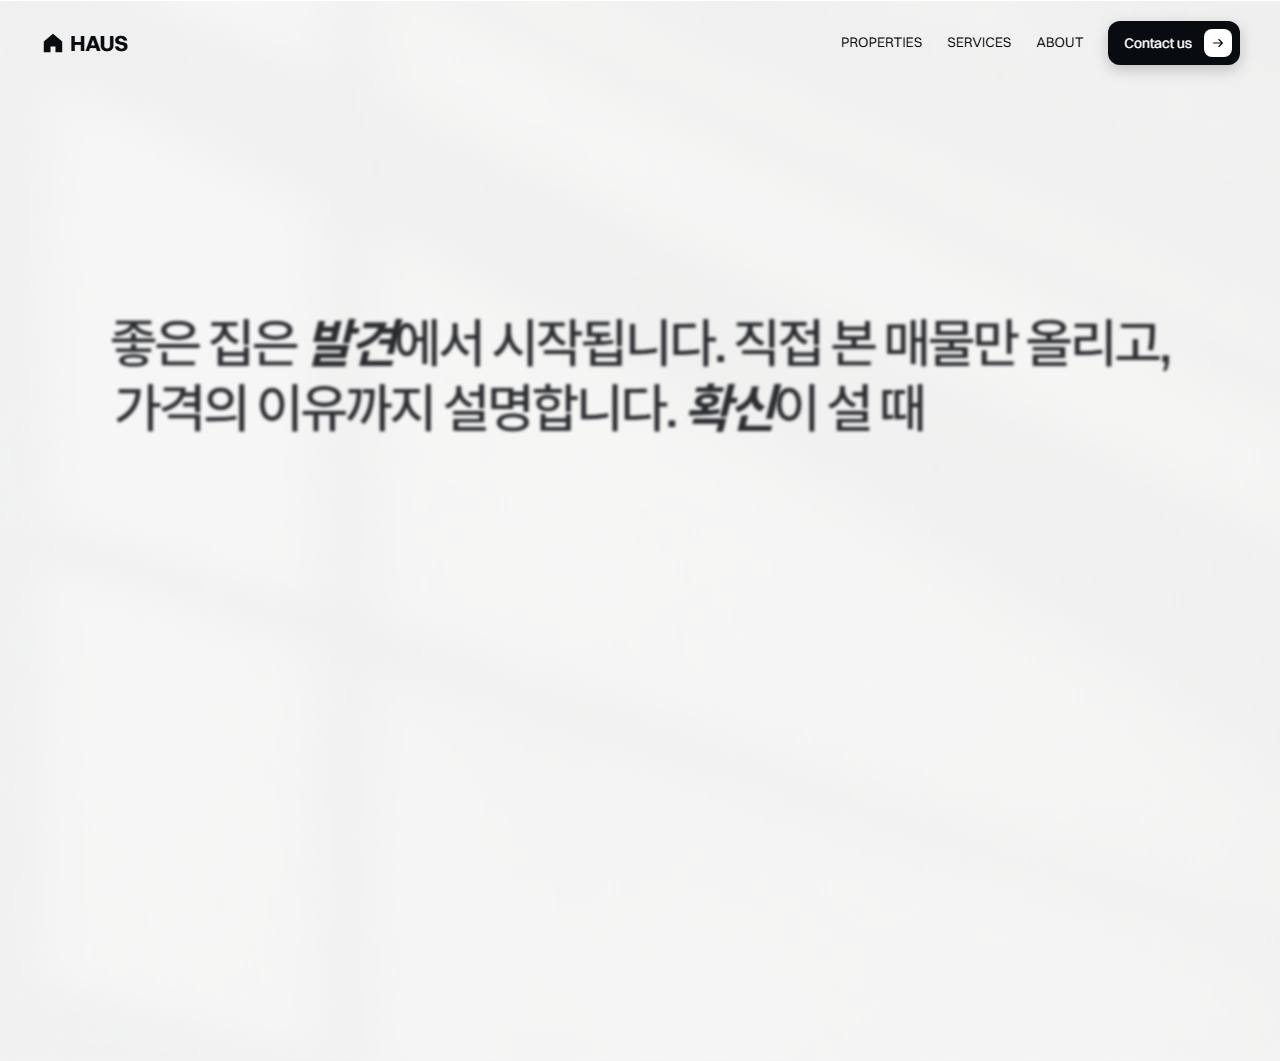
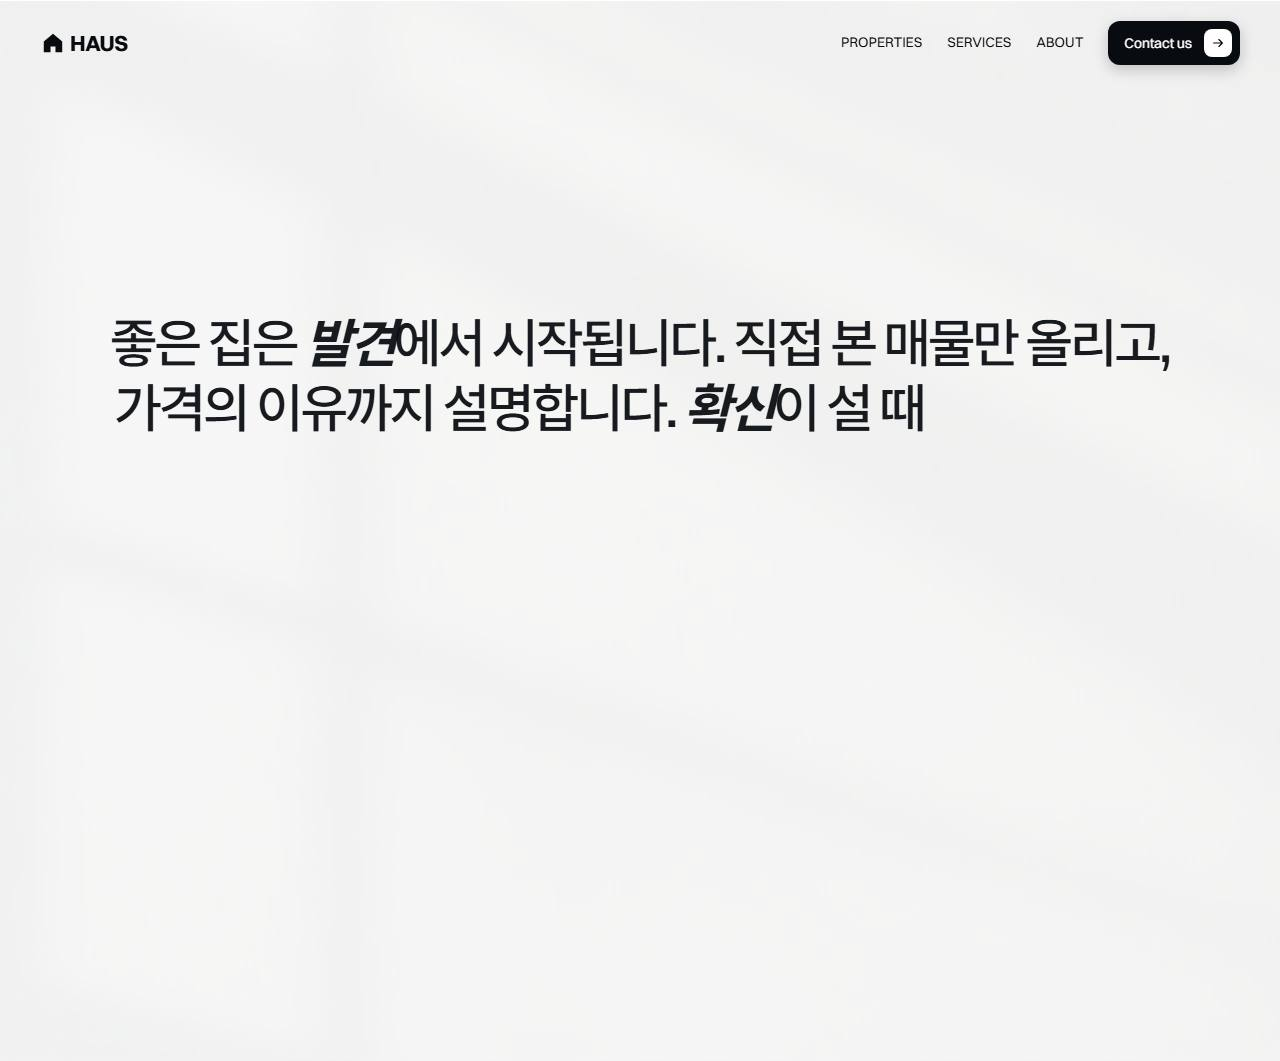
estate-a: 영상 지연 로드(화면 800px 앞에서 src 부착) — 첫 로딩 2.7MB 절감

Changed region(s): [[0.0625, 0.2799, 0.9062, 0.4043]]

diff --git a/public/templates/estate-a/index.html b/public/templates/estate-a/index.html
@@ -587,7 +587,7 @@ html:not(.js) .rt ul{animation:rvm 36.86s linear infinite}
         <li class="tk-g"><h2>Explore Homes</h2><i></i><h2>Live Better</h2><i></i><h2>Modern Spaces</h2><i></i></li>
         <li class="tk-g"><h2>Explore Homes</h2><i></i><h2>Live Better</h2><i></i><h2>Modern Spaces</h2><i></i></li>
       </ul></div>
-      <div class="vid" id="vid"><video src="./assets/highlight.mp4" poster="./assets/highlight-poster.webp" muted loop playsinline autoplay preload="none" aria-label="단층 유리 주택 영상"></video></div>
+      <div class="vid" id="vid"><video data-src="./assets/highlight.mp4" poster="./assets/highlight-poster.webp" muted loop playsinline preload="none" aria-label="단층 유리 주택 영상"></video></div>
     </div>
   </div>
 </section>
@@ -747,10 +747,11 @@ document.documentElement.classList.add('js');
   Array.prototype.slice.call(rul.children).forEach(function(li){rul.appendChild(li.cloneNode(true))});
   if(!reduce){ ticker(document.getElementById('tk'),80); ticker(rt,70,49); }
 
-  /* 영상: 보일 때만 재생 */
+  /* 영상: 첫 로딩에서 2.7MB 를 안 받도록 화면 800px 앞에서 src 를 붙이고, 보일 때만 재생 */
   if('IntersectionObserver' in window){
+    new IntersectionObserver(function(en,io){ en.forEach(function(x){ if(x.isIntersecting&&!video.src){ video.src=video.getAttribute('data-src'); video.load(); io.disconnect(); } }); },{rootMargin:'800px 0px'}).observe(vid);
     new IntersectionObserver(function(en){ en.forEach(function(x){ if(x.isIntersecting){video.play().catch(function(){})}else{video.pause()} }); },{threshold:0}).observe(vid);
-  }
+  }else{ video.src=video.getAttribute('data-src'); video.play().catch(function(){}); }
 
   /* 스탯 숫자 롤링 — 자리마다 0~9 를 쌓고 보일 때 목표 숫자까지 올린다 */
   var rolls=document.querySelectorAll('.roll');

diff --git a/public/templates/estate-a-basic/index.html b/public/templates/estate-a-basic/index.html
@@ -591,7 +591,7 @@ html:not(.js) .rt ul{animation:rvm 36.86s linear infinite}
         <li class="tk-g"><h2>Explore Homes</h2><i></i><h2>Live Better</h2><i></i><h2>Modern Spaces</h2><i></i></li>
         <li class="tk-g"><h2>Explore Homes</h2><i></i><h2>Live Better</h2><i></i><h2>Modern Spaces</h2><i></i></li>
       </ul></div>
-      <div class="vid" id="vid"><video src="../estate-a/assets/highlight.mp4" poster="../estate-a/assets/highlight-poster.webp" muted loop playsinline autoplay preload="none" aria-label="단층 유리 주택 영상"></video></div>
+      <div class="vid" id="vid"><video data-src="../estate-a/assets/highlight.mp4" poster="../estate-a/assets/highlight-poster.webp" muted loop playsinline preload="none" aria-label="단층 유리 주택 영상"></video></div>
     </div>
   </div>
 </section>
